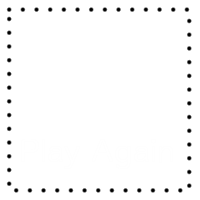
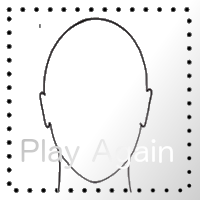
Update restart mode

diff --git a/partypi.py b/partypi.py
@@ -55,6 +55,10 @@ class PartyPi():
         self.easyIcon = cv2.imread('easy.png')
         self.hardIcon = cv2.imread('hard.png')
         self.playIcon = cv2.imread('playagain.png')
+        self.playIconOriginal = self.playIcon.copy()
+        self.playIcon1 = cv2.imread('playagain1.png')
+        self.playIcon2 = cv2.imread('playagain2.png')
+        self.playIcon3 = cv2.imread('playagain3.png')
         self.easySize = self.hardSize = self.easyIcon.shape[:2]
         self.playSize = self.playIcon.shape[:2]
         cascPath = "face.xml"
@@ -301,15 +305,26 @@ class PartyPi():
             #         flags=cv2.cv.CV_HAAR_SCALE_IMAGE
             flags=0
         )
+        if len(faces):
+            rightFace = max([x for x, y, w, h in faces])
+            bottomFace = max([y for x, y, w, h in faces])
+            if rightFace > self.screenwidth - self.playSize[1] * 1.2:
+                self.playIcon = self.playIcon1.copy()
+                if bottomFace > self.screenheight * 3 / 4:
+                    self.playIcon = self.playIcon2.copy()
+            else:
+                self.playIcon = self.playIconOriginal.copy()
+        else:
+            self.playIcon = self.playIconOriginal.copy()
 
         # Draw a rectangle around the faces
         for (x, y, w, h) in faces:
-            if x > self.screenwidth - self.playSize[1]:
-                cv2.rectangle(self.frame, (x, y),
-                              (x + w, y + h), (0, 255, 0), 2)
-                if x + w > (self.screenwidth - self.playSize[1]) and y > (self.screenheight - self.playSize[0]):
-                    self.pretimer = 10
-                    self.reset()
+            cv2.rectangle(self.frame, (x, y),
+                          (x + w, y + h), (0, 255, 0), 2)
+            if x > (self.screenwidth - self.playSize[1]) and y > (self.screenheight - self.playSize[0]):
+                self.playIcon = self.playIcon3.copy()
+                self.pretimer = 10
+                self.reset()
 
         # Show live image
         self.photo[self.screenheight - self.easySize[0]:self.screenheight, self.screenwidth - self.easySize[0]:self.screenwidth] = self.frame[
@@ -346,6 +361,7 @@ class PartyPi():
         self.result = []
         self.tickcount = 0
         self.static = False
+        self.playIcon = self.playIconOriginal
 
     def addText(self, frame, text, origin, size=1.0, color=(255, 255, 255), thickness=1):
         cv2.putText(frame, text, origin,
